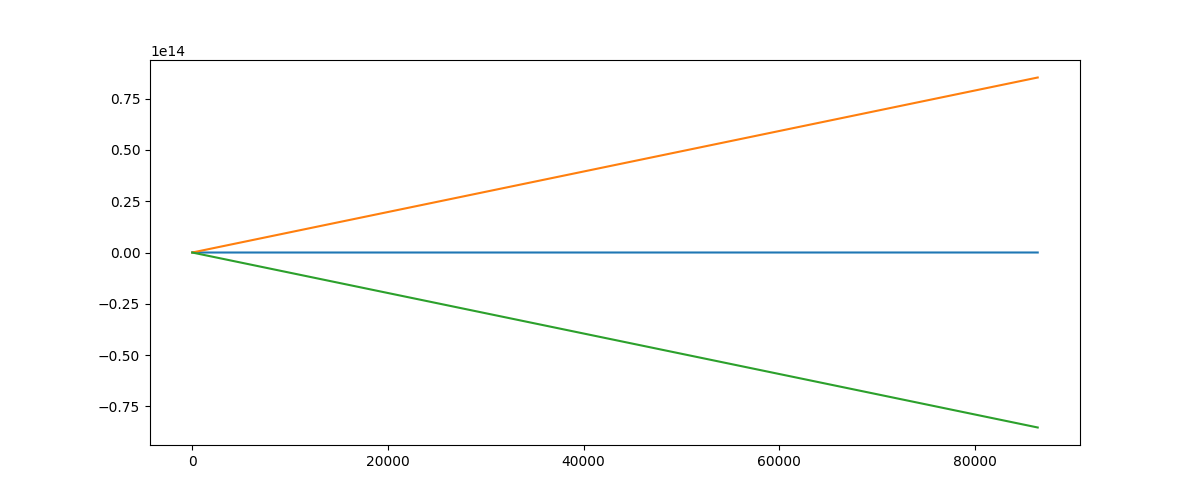
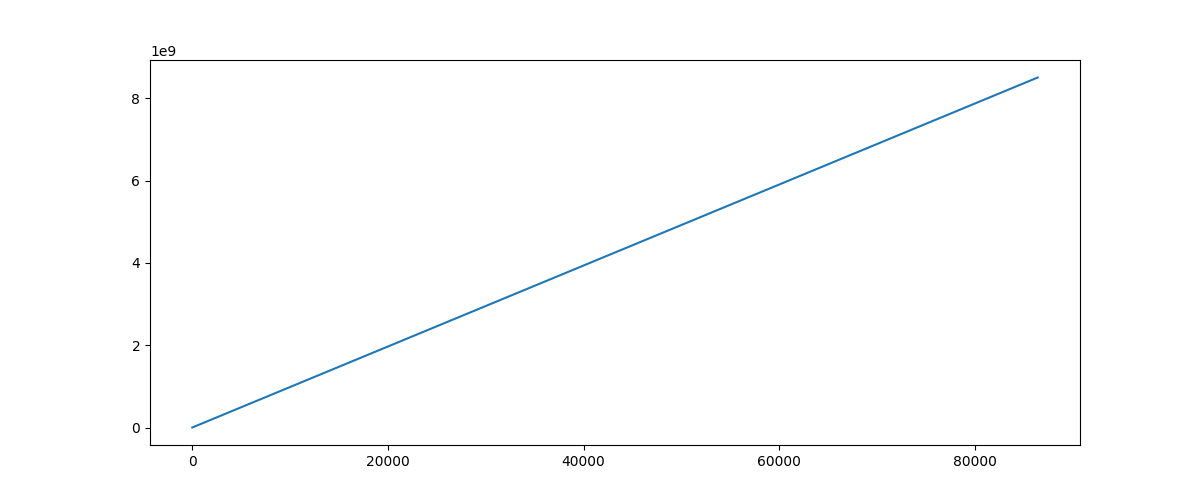
move dl calculations

diff --git a/plotting/plots.py b/plotting/plots.py
@@ -3,76 +3,10 @@ import typing
 import matplotlib.pyplot as plt
 import numpy as np
 
+import laha.dl as dl
+
 S_IN_DAY = 86_400
 S_IN_YEAR = 31_540_000
-
-
-def sem(sigma: float, n: float) -> float:
-    return sigma / np.sqrt(n)
-
-
-def mu_s_sd(n: float,
-            mu_s_samp: float,
-            mu_sr: float,
-            mu_t_sd: float,
-            sigma_t_sd: float) -> (float, float):
-    # Result
-    _mu_s_sd = mu_s_samp * mu_sr * mu_t_sd
-
-    # Errors
-    delta_s_samp = 0.0
-    delta_sr = 0.0
-    delta_t_sd = sem(sigma_t_sd, n)
-
-    samp_term = delta_s_samp / mu_s_samp
-    sr_term = delta_sr / mu_sr
-    t_sd_term = delta_t_sd / mu_t_sd
-    delta_s_sd = np.abs(_mu_s_sd) * np.sqrt((samp_term * samp_term) + (sr_term * sr_term) + (t_sd_term * t_sd_term))
-
-    return _mu_s_sd, delta_s_sd
-
-
-def mu_s_d(n: float,
-           mu_s_samp: float,
-           mu_sr: float,
-           mu_t_sd: float,
-           sigma_t_sd: float,
-           mu_sd: float,
-           sigma_sd: float) -> (float, float):
-    (_mu_s_sd, delta_s_sd) = mu_s_sd(n, mu_s_samp, mu_sr, mu_t_sd, sigma_t_sd)
-
-    _mu_s_d = _mu_s_sd * mu_sd
-
-    delta_sd = sem(sigma_sd, n)
-
-    s_sd_term = delta_s_sd / _mu_s_sd
-    sd_term = delta_sd / mu_sd
-    delta_s_d = np.abs(_mu_s_d) * np.sqrt((s_sd_term * s_sd_term) + (sd_term * sd_term))
-
-    return _mu_s_d, delta_s_d
-
-
-def mu_s_dl(n: float,
-            mu_s_samp: float,
-            mu_sr: float,
-            mu_t_sd: float,
-            sigma_t_sd: float,
-            mu_sd: float,
-            sigma_sd: float,
-            mu_dr: float,
-            sigma_dr: float,
-            t: float) -> (float, float):
-    _mu_s_d, delta_s_d = mu_s_d(n, mu_s_samp, mu_sr, mu_t_sd, sigma_t_sd, mu_sd, sigma_sd)
-
-    _mu_s_dl = _mu_s_d * mu_dr * t
-
-    delta_dr = sem(sigma_dr, n)
-
-    s_d_term = delta_s_d / _mu_s_d
-    dr_term = delta_dr / mu_dr
-    delta_s_dl = np.abs(_mu_s_dl) * np.sqrt((s_d_term * s_d_term) + (dr_term * dr_term)) * np.abs(t)
-
-    return _mu_s_dl, delta_s_dl
 
 
 def plot_iml_level_opq():
@@ -299,16 +233,16 @@ def plot_dl_opq():
     y_values = []
     e_values = []
     for t in x_values:
-        y, e = mu_s_dl(N,
-                       mu_s_samp,
-                       mu_sr,
-                       mu_t_sd,
-                       sigma_t_sd,
-                       mu_sd,
-                       sigma_sd,
-                       mu_dr,
-                       sigma_dr,
-                       t)
+        y, e = dl.mu_s_dl(N,
+                          mu_s_samp,
+                          mu_sr,
+                          mu_t_sd,
+                          sigma_t_sd,
+                          mu_sd,
+                          sigma_sd,
+                          mu_dr,
+                          sigma_dr,
+                          t)
         y_values.append(y)
         e_values.append(e)
 
@@ -316,8 +250,9 @@ def plot_dl_opq():
     e_values = np.array(e_values)
 
     plt.plot(x_values, y_values)
-    plt.plot(x_values, y_values + e_values)
-    plt.plot(x_values, y_values - e_values)
+    
+    # plt.plot(x_values, y_values + e_values)
+    # plt.plot(x_values, y_values - e_values)
     plt.savefig("../src/figures/plot_dl_opq.png")
     plt.show()
 
@@ -327,9 +262,9 @@ def plot_dl_lokahi():
 
 
 if __name__ == "__main__":
-    sample_sizes = [1, 2, 4, 8, 16]
-    sample_rates = [80, 800, 8_000, 12_000]
-    num_boxes = [1, 10, 100, 1_000, 10_000, 100_000, 1_000_000]
+    # sample_sizes = [1, 2, 4, 8, 16]
+    # sample_rates = [80, 800, 8_000, 12_000]
+    # num_boxes = [1, 10, 100, 1_000, 10_000, 100_000, 1_000_000]
     # plot_iml_level_no_opt_var_sample_size(sample_sizes, 10, S_IN_YEAR)
     # plot_iml_level_no_opt_var_sample_rate(2, sample_rates, S_IN_YEAR)
     # plot_iml_level_no_opt_var_num_sensors(4, 12000, S_IN_YEAR, num_boxes)

diff --git a/plotting/laha/dl.py b/plotting/laha/dl.py
@@ -1,0 +1,68 @@
+import numpy as np
+
+def sem(sigma: float, n: float) -> float:
+    return sigma / np.sqrt(n)
+
+
+def mu_s_sd(n: float,
+            mu_s_samp: float,
+            mu_sr: float,
+            mu_t_sd: float,
+            sigma_t_sd: float) -> (float, float):
+    # Result
+    _mu_s_sd = mu_s_samp * mu_sr * mu_t_sd
+
+    # Errors
+    delta_s_samp = 0.0
+    delta_sr = 0.0
+    delta_t_sd = sem(sigma_t_sd, n)
+
+    samp_term = delta_s_samp / mu_s_samp
+    sr_term = delta_sr / mu_sr
+    t_sd_term = delta_t_sd / mu_t_sd
+    delta_s_sd = np.abs(_mu_s_sd) * np.sqrt((samp_term * samp_term) + (sr_term * sr_term) + (t_sd_term * t_sd_term))
+
+    return _mu_s_sd, delta_s_sd
+
+
+def mu_s_d(n: float,
+           mu_s_samp: float,
+           mu_sr: float,
+           mu_t_sd: float,
+           sigma_t_sd: float,
+           mu_sd: float,
+           sigma_sd: float) -> (float, float):
+    (_mu_s_sd, delta_s_sd) = mu_s_sd(n, mu_s_samp, mu_sr, mu_t_sd, sigma_t_sd)
+
+    _mu_s_d = _mu_s_sd * mu_sd
+
+    delta_sd = sem(sigma_sd, n)
+
+    s_sd_term = delta_s_sd / _mu_s_sd
+    sd_term = delta_sd / mu_sd
+    delta_s_d = np.abs(_mu_s_d) * np.sqrt((s_sd_term * s_sd_term) + (sd_term * sd_term))
+
+    return _mu_s_d, delta_s_d
+
+
+def mu_s_dl(n: float,
+            mu_s_samp: float,
+            mu_sr: float,
+            mu_t_sd: float,
+            sigma_t_sd: float,
+            mu_sd: float,
+            sigma_sd: float,
+            mu_dr: float,
+            sigma_dr: float,
+            t: float) -> (float, float):
+    _mu_s_d, delta_s_d = mu_s_d(n, mu_s_samp, mu_sr, mu_t_sd, sigma_t_sd, mu_sd, sigma_sd)
+
+    _mu_s_dl = _mu_s_d * mu_dr * t
+
+    delta_dr = sem(sigma_dr, n)
+
+    s_d_term = delta_s_d / _mu_s_d
+    dr_term = delta_dr / mu_dr
+    delta_s_dl = np.abs(_mu_s_dl) * np.sqrt((s_d_term * s_d_term) + (dr_term * dr_term)) * np.abs(t)
+
+    return _mu_s_dl, delta_s_dl
